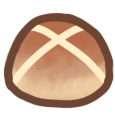
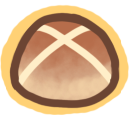
small fixes

diff --git a/scripts/MainGame.cs b/scripts/MainGame.cs
@@ -3,6 +3,7 @@ using System;
 
 public partial class MainGame : Node2D
 {
+	[Export]
 	public int MaxPillowNum = 3;
 	public int CurPillowNum = 1;
 	public int NumBuns = 0;
@@ -40,7 +41,14 @@ public partial class MainGame : Node2D
 			CurPillowNum += 1;
 		}
 	}
+
+	public void OnRetreatButtonClick() {
+		GetNode<Sprite2D>("Baker").Hide();
+		GetNode<Sprite2D>("Caught").Hide();
+	}
+
 	public async void OnLose() {
+		GetNode<Sprite2D>("Baker").Show();
 		AnimationPlayer ani = GetNode<AnimationPlayer>("BakerAni");
 		ani.Play("caught");
 		await ToSignal(ani, AnimationPlayer.SignalName.AnimationFinished);

diff --git a/scripts/Pillow.cs b/scripts/Pillow.cs
@@ -54,6 +54,12 @@ public partial class Pillow : StaticBody2D
 	}
 	public void OnStart() {
 		moveable = false;
+		GetNode<Node2D>("Buttons").Hide();
+	}
+
+	public void OnStop() {
+		moveable = true;
+		GetNode<Node2D>("Buttons").Show();
 	}
 	
 	public void OnRotateButtonDown()
@@ -75,6 +81,6 @@ public partial class Pillow : StaticBody2D
 	public void Disable()
 	{
 		Hide();
-		GetNode<CollisionShape2D>("CollisionShape2D").Hide();
+		GetNode<CollisionShape2D>("CollisionShape2D").Disabled = true;
 	}
 }
